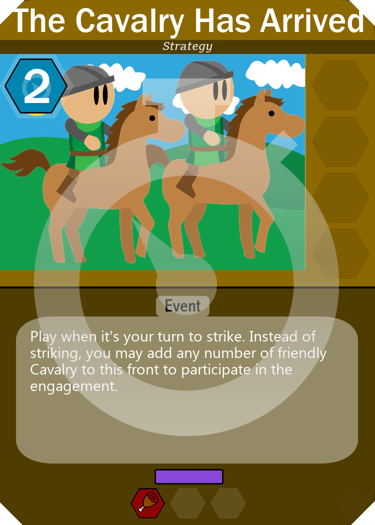
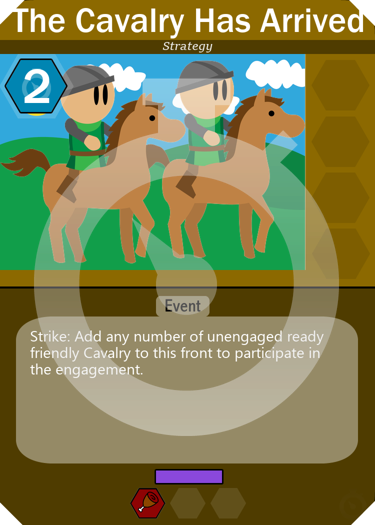
Card update
New cards and edits. Plenty of new "Burning" cards.

Changed region(s): [[0.0587, 0.6095, 0.88, 0.7619]]

diff --git a/js/tempo.js b/js/tempo.js
@@ -3,24 +3,24 @@ const ArtCards = ['Soldier', 'Knight', 'Capital', 'Barbarian', 'Peasant', 'Horse
 var CardDB = {
     "Soldier":{"cost":["A"],"time":"1","hp":1,"icons":["D", "Bw"],"spd":3,"tct":"1","res":["G"],"text":"-","vp":-1,"trait":"Military","type":"Unit","rare":"Common"},
     "Knight":{"cost":["A", "A"],"time":"2","hp":1,"icons":["D", "D"],"spd":3,"tct":"2","res":["A"],"text":"Shielding 1 (at the start of the engagement, place 1 shield on a friendly card)","vp":-1,"trait":"Military, Chivalry","type":"Unit","rare":"BLUE"},
-    "Capital":{"cost":[""],"time":"","hp":20,"icons":[""],"spd":-1,"tct":"","res":[""],"text":"Fronts: Forward, Left, Right. Water Front: Rear","vp":5,"trait":"Main Base","type":"Base","rare":"Common"},
+    "Capital":{"cost":[""],"time":"","hp":20,"icons":[""],"spd":-1,"tct":"","res":[""],"text":"Fronts: Forward, Left, Right. Water Front: Rear","vp":5,"trait":"Main Base","type":"Base","rare":"Common"},      
     "Barbarian":{"cost":["M"],"time":"1","hp":3,"icons":["Dr", "Drw"],"spd":3,"tct":"0","res":["W"],"text":"Presence (when this unit attacks, the opponent must defend with at least one defender)","vp":-1,"trait":"Outlaw","type":"Unit","rare":"BLUE"},
     "Peasant":{"cost":[""],"time":"1","hp":1,"icons":["Dw"],"spd":3,"tct":"0","res":["G"],"text":"-","vp":-1,"trait":"Civilian","type":"Unit","rare":"Common"},
-    "Horse Rider":{"cost":["A", "G"],"time":"2","hp":2,"icons":["D", "Bw", "Dr"],"spd":2,"tct":"1","res":["G"],"text":"-","vp":-1,"trait":"Military, Cavalry","type":"Unit","rare":"BLUE"},
+    "Horse Rider":{"cost":["A", "G", "M"],"time":"2","hp":2,"icons":["D", "Bw", "Dr"],"spd":2,"tct":"1","res":["G", "M"],"text":"-","vp":-1,"trait":"Military, Cavalry","type":"Unit","rare":"BLUE"},
     "King":{"cost":["S", "G", "G", "G"],"time":"3","hp":4,"icons":["D", "T", "Tw"],"spd":3,"tct":"4","res":["W", "G", "A"],"text":"During night, summon a peasant from the discard pile.","vp":2,"trait":"Royalty","type":"Unit","rare":"Rare"},
     "Archer":{"cost":["W"],"time":"1","hp":1,"icons":["D", "Dw"],"spd":3,"tct":"1","res":["W", "M"],"text":"-","vp":-1,"trait":"Military, Ranged","type":"Unit","rare":"Common"},
     "Bandit":{"cost":["G"],"time":"1","hp":1,"icons":["B", "Dw"],"spd":3,"tct":"0","res":["G"],"text":"-","vp":-1,"trait":"Outlaw","type":"Unit","rare":"Common"},
     "Prince":{"cost":["A", "G", "G", "G"],"time":"2","hp":3,"icons":["D", "D", "Dw", "Dw"],"spd":2,"tct":"4","res":["G", "S"],"text":"-","vp":1,"trait":"Royalty","type":"Unit","rare":"Rare"},
-    "Rogue":{"cost":["G", "W"],"time":"1","hp":2,"icons":["D", "B", ""],"spd":3,"tct":"-1","res":["W"],"text":"-","vp":-1,"trait":"Outlaw","type":"Unit","rare":"Common"},      
-    "Farmer":{"cost":[""],"time":"1","hp":1,"icons":["Bw"],"spd":3,"tct":"0","res":["W"],"text":"Guardian Animal","vp":-1,"trait":"Civilian","type":"Unit","rare":"Common"},    
+    "Rogue":{"cost":["G", "W"],"time":"1","hp":2,"icons":["D", "B", ""],"spd":3,"tct":"-1","res":["W"],"text":"-","vp":-1,"trait":"Outlaw","type":"Unit","rare":"Common"},
+    "Farmer":{"cost":[""],"time":"1","hp":1,"icons":["Bw"],"spd":3,"tct":"0","res":["W"],"text":"Guardian Animal","vp":-1,"trait":"Civilian","type":"Unit","rare":"Common"},
     "Catapult":{"cost":["3W", "A", "A"],"time":"4","hp":3,"icons":["B", "Bw", "Bw", "Bw"],"spd":4,"tct":"0","res":["W"],"text":"-","vp":-1,"trait":"Vehicle, Ranged","type":"Unit","rare":"Rare"},
-    "Mine":{"cost":["W"],"time":"4","hp":4,"icons":[""],"spd":-1,"tct":"","res":["A"],"text":"Resource: Exhaust and spend 1 time to gain 1 alloy.","vp":1,"trait":"Generation, Structure","type":"Building","rare":"Common"},
-    "Mill":{"cost":["W"],"time":"4","hp":4,"icons":[""],"spd":-1,"tct":"","res":["W"],"text":"Resource: Exhaust and spend 1 time to gain 1 wood.","vp":1,"trait":"Generation, Structure","type":"Building","rare":"Common"},
-    "Market":{"cost":["W"],"time":"4","hp":4,"icons":[""],"spd":-1,"tct":"","res":["G"],"text":"Resource: Exhaust and spend 1 time to gain 1 gold.","vp":1,"trait":"Generation, Structure","type":"Building","rare":"Common"},
+    "Mine":{"cost":["W"],"time":"4","hp":4,"icons":[""],"spd":-1,"tct":"","res":["A"],"text":"Resource: Exhaust and spend 1 time to gain 1 alloy.","vp":1,"trait":"Production, Structure","type":"Building","rare":"Common"},
+    "Mill":{"cost":["W"],"time":"4","hp":4,"icons":[""],"spd":-1,"tct":"","res":["W"],"text":"Resource: Exhaust and spend 1 time to gain 1 wood.","vp":1,"trait":"Production, Structure","type":"Building","rare":"Common"},
+    "Market":{"cost":["W"],"time":"4","hp":4,"icons":[""],"spd":-1,"tct":"","res":["G"],"text":"Resource: Exhaust and spend 1 time to gain 1 gold.","vp":1,"trait":"Production, Structure","type":"Building","rare":"Common"},
     "Guard":{"cost":["A"],"time":"1","hp":1,"icons":["Dbw", "Dbw"],"spd":3,"tct":"1","res":["W"],"text":"Guardian 1 (When a friendly unit on the same front takes damage, you exhaust this unit to block 1 damage and place it on this unit.)","vp":-1,"trait":"Military","type":"Unit","rare":"BLUE"},
-    "Defender":{"cost":["W", "A"],"time":"2","hp":2,"icons":["Db", "Db"],"spd":3,"tct":"1","res":["A"],"text":"Wall","vp":-1,"trait":"Military","type":"Unit","rare":"BLUE"},   
+    "Defender":{"cost":["W", "A"],"time":"2","hp":2,"icons":["Db", "Db"],"spd":3,"tct":"1","res":["A"],"text":"Wall","vp":-1,"trait":"Military","type":"Unit","rare":"BLUE"},
     "Raider":{"cost":["W"],"time":"1","hp":1,"icons":["B", "Bw"],"spd":3,"tct":"0","res":["G"],"text":"Loot 1","vp":-1,"trait":"Outlaw","type":"Unit","rare":"BLUE"},
-    "Hunter":{"cost":["G", "W"],"time":"1","hp":1,"icons":["Drw", "Drw"],"spd":3,"tct":"2","res":["M", "W"],"text":"Resource: Exhaust and spend 1 time to gain 1 meat.","vp":-1,"trait":"Civilian, Ranged","type":"Unit","rare":"BLUE"},
+    "Hunter":{"cost":["G", "W"],"time":"1","hp":1,"icons":["Drw", "Drw"],"spd":3,"tct":"2","res":["M"],"text":"Resource: Exhaust and spend 2 time to gain 1 meat.","vp":-1,"trait":"Civilian, Ranged, Production","type":"Unit","rare":"BLUE"},
     "Marksman":{"cost":["W", "W"],"time":"2","hp":1,"icons":["D", "Dw"],"spd":3,"tct":"1","res":["G"],"text":"Targeted Strike (while attacking, this unit may strike against enemy units that are not defending)","vp":-1,"trait":"Military, Ranged","type":"Unit","rare":"BLUE"},
     "Cow":{"cost":["G"],"time":"1","hp":3,"icons":[""],"spd":4,"tct":"0","res":["G"],"text":"Resource: Sacrifice for 2 meat","vp":-1,"trait":"Animal","type":"Unit","rare":"Common"},
     "Pig":{"cost":[""],"time":"2","hp":2,"icons":[""],"spd":3,"tct":"0","res":["M"],"text":"Resource: Sacrifice for 1 meat","vp":-1,"trait":"Animal","type":"Unit","rare":"Common"},
@@ -30,22 +30,21 @@ var CardDB = {
     "Messenger":{"cost":["G", "G"],"time":"1","hp":1,"icons":["D"],"spd":2,"tct":"+1","res":["S"],"text":"After this unit survives a battle, you may look at the top card of your deck","vp":-1,"trait":"Civilian, Cavalry","type":"Unit","rare":"BLUE"},
     "Royal Guard":{"cost":["A", "G"],"time":"2","hp":3,"icons":["D", "D"],"spd":3,"tct":"2","res":["W"],"text":"Spot Royalty. Guardian 2. Royalty not participating cannot be damaged","vp":-1,"trait":"Court, Military","type":"Unit","rare":"Rare"},
     "Guard Captain":{"cost":["A", "A"],"time":"2","hp":2,"icons":["Dbw", "Dbw"],"spd":3,"tct":"2","res":["G"],"text":"Guardian 2. While this unit is engaged, other friendly Guardians may treat one damage icon as if it were fully black when they strike.","vp":-1,"trait":"Military","type":"Unit","rare":"Rare"},
-    "Royal Knight":{"cost":["A", "A"],"time":"1","hp":2,"icons":["D", "D"],"spd":3,"tct":"3","res":["A", "S"],"text":"Spot Royalty. Shielding 2","vp":-1,"trait":"Court, Military","type":"Unit","rare":"Rare"},
-    "Angry Mob":{"cost":["W"],"time":"3","hp":3,"icons":["Dr", "B", "B"],"spd":4,"tct":"0","res":[""],"text":"At the end of the day, deal 2 damage to this unit.","vp":-1,"trait":"Civilian, Burning","type":"Unit","rare":"BLUE"},
+    "Royal Knight":{"cost":["A", "A"],"time":"1","hp":2,"icons":["D", "D"],"spd":3,"tct":"3","res":["A", "S"],"text":"Spot Royalty. Shielding 2","vp":-1,"trait":"Court, Military","type":"Unit","rare":"Rare"},    "Angry Mob":{"cost":["W"],"time":"3","hp":3,"icons":["Dr", "B", "B"],"spd":4,"tct":"0","res":[""],"text":"At the end of the day, deal 2 damage to this unit.","vp":-1,"trait":"Civilian, Burning","type":"Unit","rare":"BLUE"},
     "Jester":{"cost":["G"],"time":"2","hp":1,"icons":[""],"spd":3,"tct":"1","res":[""],"text":"Presence. Enemies with 0 or less tactics cannot target him.","vp":-1,"trait":"Civilian, Court","type":"Unit","rare":"BLUE"},
-    "Book":{"cost":[""],"time":"0","hp":-1,"icons":[""],"spd":-1,"tct":"","res":[""],"text":"Upgrade unit. Attached unit gains +1 tactics","vp":-1,"trait":"Book","type":"Upgrade","rare":"BLUE"},
+    "Book":{"cost":[""],"time":"1","hp":-1,"icons":[""],"spd":-1,"tct":"","res":[""],"text":"Upgrade unit. Attached unit gains +1 tactics","vp":-1,"trait":"Book","type":"Upgrade","rare":"BLUE"},
     "Royal Herald":{"cost":["A"],"time":"2","hp":1,"icons":[""],"spd":3,"tct":"1","res":["S"],"text":"Decrease the cost of Royal cards by 1 Gold.","vp":-1,"trait":"Musician, Court","type":"Unit","rare":"Rare"},
-    "Well Prepared":{"cost":[""],"time":"1","hp":-1,"icons":[""],"spd":-1,"tct":"","res":[""],"text":"Play when determining advantage while you are defending. You automatically gain the advantage.","vp":-1,"trait":"Strategy","type":"Event","rare":"Common"},       
-    "Surprise Attack":{"cost":[""],"time":"1","hp":-1,"icons":[""],"spd":-1,"tct":"","res":[""],"text":"Play when determining advantage while you are attacking. You automatically gain the advantage.","vp":-1,"trait":"Strategy","type":"Event","rare":"Common"},     
+    "Well Prepared":{"cost":[""],"time":"1","hp":-1,"icons":[""],"spd":-1,"tct":"","res":[""],"text":"Play when determining advantage while you are defending. You automatically gain the advantage.","vp":-1,"trait":"Strategy","type":"Event","rare":"Common"},
+    "Surprise Attack":{"cost":[""],"time":"1","hp":-1,"icons":[""],"spd":-1,"tct":"","res":[""],"text":"Play when determining advantage while you are attacking. You automatically gain the advantage.","vp":-1,"trait":"Strategy","type":"Event","rare":"Common"},
     "Builder":{"cost":["A"],"time":"1","hp":1,"icons":["Bw"],"spd":3,"tct":"0","res":["W"],"text":"Exhaust while playing a building to decrease the time cost by 1","vp":-1,"trait":"Civilian","type":"Unit","rare":"Common"},
     "Dragon":{"cost":["3G", "3M"],"time":"3","hp":4,"icons":["D", "Dr", "Dr", "Br", "Br"],"spd":2,"tct":"2","res":["G"],"text":"Flying. Loot 2. Presence. While attacking, this unit gains 2 extra blast from the no defenders bonus, unless your opponent spends one time. ","vp":2,"trait":"Beast, Ranged, Burning","type":"Unit","rare":"Rare"},
-    "Rooster":{"cost":["G"],"time":"1","hp":1,"icons":[""],"spd":2,"tct":"0","res":["M"],"text":"Gain +1 Time at start of day. Resource: Sacrifice for 1 meat","vp":-1,"trait":"Animal","type":"Unit","rare":"BLUE"},
-    "Sentry":{"cost":["A", "A", "W"],"time":"2","hp":1,"icons":["Db"],"spd":3,"tct":"1","res":["A"],"text":"While this unit is defending, when determining advantage, you may spend 3 time and exhaust this unit. If you do, you gain the advantage.","vp":-1,"trait":"Military","type":"Unit","rare":"BLUE"},  
+    "Rooster":{"cost":["G"],"time":"1","hp":1,"icons":[""],"spd":2,"tct":"0","res":["M"],"text":"Gain +1 Time at start of day. Resource: Sacrifice for 1 meat","vp":-1,"trait":"Animal","type":"Unit","rare":"Rare"},
+    "Sentry":{"cost":["A", "A", "W"],"time":"2","hp":1,"icons":["Db"],"spd":3,"tct":"1","res":["A"],"text":"While this unit is defending, when determining advantage, you may spend 3 time and exhaust this unit. If you do, you gain the advantage.","vp":-1,"trait":"Military","type":"Unit","rare":"BLUE"},
     "Expert Archer":{"cost":["W", "W"],"time":"2","hp":2,"icons":["D", "Dw"],"spd":3,"tct":"1","res":["W", "M"],"text":"When this unit strikes, you may spend one time to deal one extra damage to the target unit.","vp":-1,"trait":"Military, Ranged","type":"Unit","rare":"Rare"},
     "Knight Commander":{"cost":["S", "A", "A", "A"],"time":"3","hp":4,"icons":["D", "D", "Dw", "Tw"],"spd":3,"tct":"5","res":["S"],"text":"This unit can only fight with Chivalry.","vp":1,"trait":"Military, Chivalry","type":"Unit","rare":"Rare"},
     "Knight Officer":{"cost":["A", "A", "A"],"time":"2","hp":3,"icons":["D", "D"],"spd":3,"tct":"3","res":["A"],"text":"Friendly Chivalry gain Guardian 1.","vp":-1,"trait":"Military, Chivalry","type":"Unit","rare":"BLUE"},
     "War Hero":{"cost":["G", "W", "A"],"time":"2","hp":3,"icons":["Dr", "Br"],"spd":3,"tct":"1","res":["G"],"text":"After surviving a battle, this unit heals to full health. You may then spend one gold, one alloy, and one time to place one counter on this unit. For each counter, this unit gains a white unit damage icon and +1 tactics","vp":1,"trait":"Military, Cavalry","type":"Unit","rare":"Rare"},
-    "Cannon":{"cost":["A", "A"],"time":"3","hp":2,"icons":["D", "D", "Dw", "B"],"spd":-1,"tct":"","res":["A", "W"],"text":"","vp":-1,"trait":"Defensive, Ranged, Aquatic","type":"Building","rare":"BLUE"},
+    "Cannon":{"cost":["A", "A"],"time":"3","hp":2,"icons":["D", "D", "Dw", "B"],"spd":-1,"tct":"","res":["A", "W"],"text":"","vp":-1,"trait":"Defensive, Ranged, Aquatic","type":"Building","rare":"BLUE"},     
     "Flaming Archer":{"cost":["W", "W"],"time":"3","hp":1,"icons":["Dr", "Drw"],"spd":3,"tct":"1","res":["W"],"text":"While attacking, this unit gains 1 extra blast from the no defenders bonus, unless your opponent spends 1 time. ","vp":-1,"trait":"Military, Ranged, Burning","type":"Unit","rare":"Rare"},
     "Coward":{"cost":["A"],"time":"0","hp":1,"icons":["D", "Bw"],"spd":3,"tct":"0","res":["A", "G"],"text":"If this unit is the only friendly unit in the engagement, it flees.","vp":-1,"trait":"Military","type":"Unit","rare":"BLUE"},
     "Dark Prince":{"cost":["G", "G", "G", "A"],"time":"2","hp":3,"icons":["D", "D", "Dw", "Dw"],"spd":2,"tct":"3","res":["G", "C"],"text":"Arrogant (this unit must be your chosen leader)","vp":1,"trait":"Dark, Royalty","type":"Unit","rare":"Rare"},
@@ -59,17 +58,17 @@ var CardDB = {
     "Angry Farmer":{"cost":[""],"time":"1","hp":1,"icons":["Bw"],"spd":3,"tct":"0","res":["W"],"text":"Action: Sacrifice this unit and another civilian to summon an angry mob.","vp":-1,"trait":"Civilian","type":"Unit","rare":"BLUE"},
     "Dark Soldier":{"cost":["A"],"time":"1","hp":1,"icons":["D", "Bw"],"spd":3,"tct":"1","res":["C"],"text":"If this unit survives an attack without the undefended bonus, destroy it.","vp":-1,"trait":"Military, Dark","type":"Unit","rare":"BLUE"},
     "Dismount":{"cost":[""],"time":"0","hp":-1,"icons":[""],"spd":-1,"tct":"","res":["M", "A", "G"],"text":"Action: Sacrifice a Cavalry to summon a horse, and a soldier if that unit was military","vp":-1,"trait":"","type":"Event","rare":"BLUE"},
-    "Blacksmith":{"cost":["A", "G"],"time":"2","hp":1,"icons":["D", "Bw"],"spd":3,"tct":"0","res":["A"],"text":"Resource: Exhaust this card, spend 2 time, and spend 1 alloy to gain either 2 alloy or 1 gold.","vp":-1,"trait":"Civilian, Generation","type":"Unit","rare":"BLUE"},
+    "Blacksmith":{"cost":["A", "G"],"time":"2","hp":1,"icons":["D", "Bw"],"spd":3,"tct":"0","res":["A"],"text":"Resource: Exhaust this card, spend 2 time, and spend 1 alloy to gain either 2 alloy or 1 gold.","vp":-1,"trait":"Civilian, Production","type":"Unit","rare":"BLUE"},
     "Sword":{"cost":["A"],"time":"1","hp":-1,"icons":[""],"spd":-1,"tct":"","res":["W"],"text":"Upgrade Military. Attached unit gains piercing and a black unit damage icon.","vp":-1,"trait":"Weapon","type":"Upgrade","rare":"BLUE"},
     "Heater Shield":{"cost":["A"],"time":"1","hp":-1,"icons":[""],"spd":-1,"tct":"","res":["W"],"text":"Upgrade Military. Attached unit gains shielding 1.","vp":-1,"trait":"Equipment","type":"Upgrade","rare":"BLUE"},
-    "Anvil":{"cost":["A", "A"],"time":"1","hp":-1,"icons":[""],"spd":-1,"tct":"","res":["A"],"text":"Upgrade structure. Resource: Exhaust and spend 1 alloy to gain 2 alloy","vp":-1,"trait":"","type":"Upgrade","rare":"BLUE"},
+    "Anvil":{"cost":["A", "A"],"time":"1","hp":-1,"icons":[""],"spd":-1,"tct":"","res":["A"],"text":"Upgrade structure. Resource: Exhaust and spend 1 alloy to gain 2 alloy","vp":-1,"trait":"Equipment, Production","type":"Upgrade","rare":"BLUE"},
     "Crown":{"cost":["G", "G"],"time":"2","hp":-1,"icons":[""],"spd":-1,"tct":"","res":["S"],"text":"Upgrade Royalty. While attached card is engaged, other friendly units in the engagement gain guardian royalty. Attached Card has +1 VP","vp":-1,"trait":"Equipment","type":"Upgrade","rare":"BLUE"},
     "Front Focused":{"cost":[""],"time":"1","hp":-1,"icons":[""],"spd":-1,"tct":"","res":["W"],"text":"Play when an opponent begins an attack. The opponent can only attack on a single front.","vp":-1,"trait":"Strategy","type":"Event","rare":"BLUE"},
     "Raging Flames":{"cost":[""],"time":"1","hp":-1,"icons":[""],"spd":-1,"tct":"","res":["W"],"text":"Play when you gain the undefended bonus. Spot a participating burning unit to deal 2 extra blast, unless the opponent spends 1 time","vp":-1,"trait":"Burning, Attack","type":"Event","rare":"BLUE"},
     "Warning Horn":{"cost":["W"],"time":"1","hp":-1,"icons":[""],"spd":-1,"tct":"","res":["S"],"text":"Upgrade Structure. When this front is attacked, you may exhaust this card to ready a defensive card or a unit with a blue damage icon.","vp":-1,"trait":"Defensive","type":"Upgrade","rare":"BLUE"},
     "Brawler":{"cost":["W"],"time":"0","hp":2,"icons":["D", "D"],"spd":3,"tct":"0","res":["A"],"text":"If ready, this unit must be declared as an attacker or defender, if possible.","vp":-1,"trait":"Outlaw","type":"Unit","rare":"BLUE"},
     "Winter Soldier":{"cost":["A"],"time":"1","hp":1,"icons":["D", "Bw"],"spd":4,"tct":"1","res":["I"],"text":"After this unit deals damage to a enemy card with Burning, exhaust that card.","vp":-1,"trait":"Winter, Military","type":"Unit","rare":"BLUE"},
-    "Frost Knight":{"cost":["A", "A", "I"],"time":"2","hp":2,"icons":["D", "D", "Tbw"],"spd":4,"tct":"3","res":["I", "A"],"text":"Shielding 1","vp":-1,"trait":"Winter, Chivalry","type":"Unit","rare":"Rare"},
+    "Frost Knight":{"cost":["A", "A", "I"],"time":"2","hp":2,"icons":["D", "D", "Tbw"],"spd":4,"tct":"3","res":["I", "A"],"text":"Shielding 1","vp":-1,"trait":"Winter, Chivalry","type":"Unit","rare":"Rare"}, 
     "Ice Archer":{"cost":["W", "I"],"time":"2","hp":1,"icons":["D", "Tbw"],"spd":4,"tct":"0","res":["I", "W"],"text":"-","vp":-1,"trait":"Winter, Military, Ranged","type":"Unit","rare":"BLUE"},
     "Snowman":{"cost":[""],"time":"1","hp":1,"icons":["Tbw"],"spd":4,"tct":"0","res":[""],"text":"Resource: Sacrifice this unit for 1 ice.","vp":-1,"trait":"Winter","type":"Unit","rare":"BLUE"},
     "Ice King":{"cost":["I", "G", "G", "G"],"time":"3","hp":4,"icons":["Tb", "Tw"],"spd":4,"tct":"5","res":["I", "S", "G"],"text":"This unit cannot be exhausted by enemies.","vp":2,"trait":"Winter, Royalty","type":"Unit","rare":"Rare"},
@@ -78,28 +77,26 @@ var CardDB = {
     "Standoff":{"cost":[""],"time":"0","hp":-1,"icons":[""],"spd":-1,"tct":"","res":[""],"text":"Action: Pick an opponent. You choose a number between 0 and 3 (inclusive). Both you and your opponent lose this much time. Then the opponent does the same, but they choose the number.","vp":-1,"trait":"Strategy","type":"Event","rare":"BLUE"},
     "Snowball":{"cost":[""],"time":"1","hp":-1,"icons":[""],"spd":-1,"tct":"","res":["I"],"text":"Upgrade winter unit. Attached unit gains ranged and a black unit damage icon.","vp":-1,"trait":"Weapon, Winter","type":"Upgrade","rare":"BLUE"},
     "Flock":{"cost":["F", "F"],"time":"4","hp":3,"icons":[""],"spd":4,"tct":"-1","res":["F"],"text":"Flying. This unit was a white unit damage icon for each health it has remaining.","vp":-1,"trait":"Animal","type":"Unit","rare":"BLUE"},
-    "Doctor":{"cost":["G", "A"],"time":"3","hp":1,"icons":[""],"spd":3,"tct":"1","res":["S"],"text":"During night, heal 1 damage from a friendly unit.","vp":-1,"trait":"Civilian","type":"Unit","rare":"BLUE"},
-    "Soldier Squadron":{"cost":["A", "A", "A"],"time":"2","hp":3,"icons":["D", "D", "D"],"spd":3,"tct":"1","res":["G"],"text":"-","vp":-1,"trait":"Military","type":"Unit","rare":"BLUE"},
-    "Double Cross":{"cost":["C"],"time":"2","hp":-1,"icons":[""],"spd":-1,"tct":"","res":["G"],"text":"Play when an opponent plays an event. Cancel its effects. You may play the canceled card as if you had played it, paying its costs","vp":-1,"trait":"","type":"Event","rare":"BLUE"},
+    "Doctor":{"cost":["G", "A"],"time":"3","hp":1,"icons":[""],"spd":3,"tct":"1","res":["S"],"text":"During night, heal 1 damage from a friendly unit.","vp":-1,"trait":"Civilian","type":"Unit","rare":"BLUE"},    "Soldier Squadron":{"cost":["A", "A", "A"],"time":"2","hp":3,"icons":["D", "D", "D"],"spd":3,"tct":"1","res":["G"],"text":"-","vp":-1,"trait":"Military","type":"Unit","rare":"BLUE"},
+    "Double Cross":{"cost":["C"],"time":"2","hp":-1,"icons":[""],"spd":-1,"tct":"","res":["G"],"text":"Play when an opponent plays an event. Cancel its effects. You may play the canceled card as if you had played it, paying its costs","vp":-1,"trait":"Cancel","type":"Event","rare":"BLUE"},
     "Two Steps Ahead":{"cost":["Q"],"time":"3","hp":-1,"icons":[""],"spd":-1,"tct":"","res":["S"],"text":"Play when an opponent plays an event. Cancel its effects","vp":-1,"trait":"Strategy, Cancel","type":"Event","rare":"BLUE"},
-    "Bribe":{"cost":["G", "G", "G"],"time":"2","hp":-1,"icons":[""],"spd":-1,"tct":"","res":["C"],"text":"Action: Choose an enemy unit with gold in their cost, that isn't Chivalry, and has 2 or less tactics. Take control of that unit.","vp":-1,"trait":"Dark, Cancel","type":"Event","rare":"BLUE"},
+    "Bribe":{"cost":["G", "G", "G"],"time":"2","hp":-1,"icons":[""],"spd":-1,"tct":"","res":["C"],"text":"Action: Choose an enemy unit with gold in their cost, that isn't Chivalry, and has 2 or less tactics. Take control of that unit.","vp":-1,"trait":"Dark","type":"Event","rare":"BLUE"},
     "Confusion":{"cost":["A"],"time":"1","hp":-1,"icons":[""],"spd":-1,"tct":"","res":[""],"text":"Play on an enemy unit. Treat each of that units black damage icons as white, and each of its white icons as black.","vp":-1,"trait":"","type":"Detriment","rare":"BLUE"},
     "Fear":{"cost":["W", "A", "A"],"time":"2","hp":-1,"icons":[""],"spd":-1,"tct":"","res":[""],"text":"Play on an opponent's play area. After that opponent plays a unit, you may discard this card to return that unit to their hand.","vp":-1,"trait":"","type":"Detriment","rare":"BLUE"},
-    "Testudo Formation":{"cost":[""],"time":"1","hp":-1,"icons":[""],"spd":-1,"tct":"","res":[""],"text":"Play during an engagement. For each partipating shielding unit, you may place 1 shield on any unit.","vp":-1,"trait":"Strategy","type":"Event","rare":"Rare"},    "Warhorn":{"cost":["W", "W"],"time":"1","hp":-1,"icons":[""],"spd":-1,"tct":"","res":[""],"text":"Upgrade a unit. Attached unit gains Presence","vp":-1,"trait":"Equipment","type":"Upgrade","rare":"BLUE"},
-    "Black Death":{"cost":["4C", "W"],"time":"5","hp":-1,"icons":[""],"spd":-1,"tct":"","res":[""],"text":"Play on an opponent's play area. Deal 1 damage to all of that opponent's non-VP units during night. Discard this card if that opponent ever controls no non-VP units","vp":-1,"trait":"Disease","type":"Detriment","rare":"Rare"},
+    "Testudo Formation":{"cost":[""],"time":"1","hp":-1,"icons":[""],"spd":-1,"tct":"","res":[""],"text":"Play during an engagement. For each partipating shielding unit, you may place 1 shield on any unit.","vp":-1,"trait":"Strategy","type":"Event","rare":"Rare"},
+    "Warhorn":{"cost":["W", "W"],"time":"1","hp":-1,"icons":[""],"spd":-1,"tct":"","res":[""],"text":"Upgrade a unit. Attached unit gains Presence","vp":-1,"trait":"Equipment","type":"Upgrade","rare":"BLUE"},    "Black Death":{"cost":["4C", "W"],"time":"5","hp":-1,"icons":[""],"spd":-1,"tct":"","res":[""],"text":"Play on an opponent's play area. Deal 1 damage to all of that opponent's non-VP units during night. Discard this card if that opponent ever controls no non-VP units","vp":-1,"trait":"Disease","type":"Detriment","rare":"Rare"},
     "Hourglass":{"cost":["W"],"time":"2","hp":-1,"icons":[""],"spd":-1,"tct":"","res":["W"],"text":"Upgrade Unit. Action: Spend 1 time and exhaust this card to force an opponent to lose 1 time.","vp":-1,"trait":"Equipment","type":"Upgrade","rare":"BLUE"},
-    "Rally":{"cost":[""],"time":"3","hp":-1,"icons":[""],"spd":-1,"tct":"","res":["S"],"text":"Summon 3 common Civilians.","vp":-1,"trait":"","type":"Event","rare":"BLUE"},    
+    "Rally":{"cost":[""],"time":"3","hp":-1,"icons":[""],"spd":-1,"tct":"","res":["S"],"text":"Summon 3 common Civilians.","vp":-1,"trait":"","type":"Event","rare":"BLUE"},
     "Captain":{"cost":["A", "A", "G", "G"],"time":"2","hp":2,"icons":["D", "Bw"],"spd":3,"tct":"2","res":["A", "G"],"text":"After this unit is played, summon up to 2 soldiers.","vp":-1,"trait":"Military","type":"Unit","rare":"Rare"},
     "Salmon":{"cost":[""],"time":"1","hp":1,"icons":[""],"spd":3,"tct":"0","res":["G"],"text":"Resource: Sacrifice this unit for 1 fish, or 2 instead if you spot another water unit","vp":-1,"trait":"Water, Animal","type":"Unit","rare":"BLUE"},
     "Giant":{"cost":["M", "M", "M", "M"],"time":"3","hp":5,"icons":["D", "D", "B", "B"],"spd":4,"tct":"0","res":["W"],"text":"-","vp":1,"trait":"-","type":"Unit","rare":"BLUE"},
-    "Regicide":{"cost":[""],"time":"1","hp":-1,"icons":[""],"spd":-1,"tct":"","res":[""],"text":"Play after an opponent's royalty unit is defeated. Gain 1 VP","vp":-1,"trait":"","type":"Event","rare":"BLUE"},
-    "Revolution!":{"cost":[""],"time":"2","hp":-1,"icons":[""],"spd":-1,"tct":"","res":["A"],"text":"Action: Sacrifice a royalty unit to ready all friendly civilians and heal all damage from them","vp":-1,"trait":"","type":"Event","rare":"BLUE"},
+    "Regicide":{"cost":[""],"time":"1","hp":-1,"icons":[""],"spd":-1,"tct":"","res":[""],"text":"Play after an opponent's royalty unit is defeated. Gain 1 VP","vp":-1,"trait":"","type":"Event","rare":"BLUE"},    "Revolution!":{"cost":[""],"time":"2","hp":-1,"icons":[""],"spd":-1,"tct":"","res":["A"],"text":"Action: Sacrifice a royalty unit to ready all friendly civilians and heal all damage from them","vp":-1,"trait":"","type":"Event","rare":"BLUE"},
     "Decisive Victory":{"cost":[""],"time":"1","hp":-1,"icons":[""],"spd":-1,"tct":"","res":["G"],"text":"Play after you destroy a unit with VP. Destroy a target upgrade.","vp":-1,"trait":"","type":"Event","rare":"BLUE"},
     "Book of Nobility":{"cost":["W"],"time":"1","hp":-1,"icons":[""],"spd":-1,"tct":"","res":["S"],"text":"Upgrade chivalry or military. While this upgrade is on a military they are treated as a chivalry. If this upgrade is on a chivalry it gains shielding 2 and can only fight with other chivalry.","vp":-1,"trait":"Book","type":"Upgrade","rare":"BLUE"},
     "Informant":{"cost":["G"],"time":"2","hp":1,"icons":["D"],"spd":3,"tct":"1","res":["W"],"text":"When this card enters play, you may look at an opponent's hand.","vp":-1,"trait":"Dark","type":"Unit","rare":"BLUE"},
     "Rumors":{"cost":["G"],"time":"2","hp":-1,"icons":[""],"spd":-1,"tct":"","res":["C"],"text":"Action: An opponent chooses 1 card in their hand, and shows the rest to you. Of the shown cards, choose and discard 1.","vp":-1,"trait":"","type":"Event","rare":"BLUE"},
     "Snow Bandit":{"cost":["G"],"time":"2","hp":1,"icons":["B", "Bw"],"spd":4,"tct":"0","res":["G", "I"],"text":"After attacking or defending, if you had the no defenders bonus and this unit was alive, you may exhaust an enemy building.","vp":-1,"trait":"Winter, Outlaw","type":"Unit","rare":"BLUE"},
-    "Noble Sacrifice":{"cost":[""],"time":"0","hp":-1,"icons":[""],"spd":-1,"tct":"","res":["S", "F", "M"],"text":"Strike: Sacrifice a participating unit with at least 2 tactics to have any number of friendly units on the front from the battle.","vp":-1,"trait":"Strategy","type":"Event","rare":"BLUE"},
+    "Noble Sacrifice":{"cost":[""],"time":"0","hp":-1,"icons":[""],"spd":-1,"tct":"","res":["S", "F", "M"],"text":"Strike: Sacrifice a participating unit with at least 2 tactics to have any number of friendly flee units on the front from the battle.","vp":-1,"trait":"Strategy","type":"Event","rare":"BLUE"},
     "Fight Me":{"cost":["G"],"time":"3","hp":-1,"icons":[""],"spd":-1,"tct":"","res":[""],"text":"Choose up to three of your own units. An opponent then chooses that number of their own units, if able. Start a battle with those units ignoring speed cost and not attacking a front.","vp":-1,"trait":"Strategy","type":"Event","rare":"BLUE"},
     "Disruption":{"cost":["W", "A"],"time":"2","hp":-1,"icons":[""],"spd":-1,"tct":"","res":["G"],"text":"Play on an opponents play area. Each card the opponent plays cost 1 additional time. Discard this card at the end of the day.","vp":-1,"trait":"","type":"Detriment","rare":"BLUE"},
     "Crow":{"cost":["Q"],"time":"1","hp":1,"icons":["Dw"],"spd":2,"tct":"0","res":[""],"text":"Flying. After this unit strikes, it flees","vp":-1,"trait":"Animal, Dark","type":"Unit","rare":"BLUE"},
@@ -111,42 +108,53 @@ var CardDB = {
     "Rat":{"cost":[""],"time":"1","hp":1,"icons":["D"],"spd":3,"tct":"0","res":["C"],"text":"After this unit strikes, you may sacrifice it to play a detriment from your discard pile, ignoring the time cost.","vp":-1,"trait":"Animal, Dark","type":"Unit","rare":"BLUE"},
     "Nightmares":{"cost":[""],"time":"1","hp":-1,"icons":[""],"spd":-1,"tct":"","res":["C"],"text":"Play on enemy unit. During night, before the owner of attached card draws up to their hand size, they must choose and discard 1 card.","vp":-1,"trait":"","type":"Detriment","rare":"BLUE"},
     "Dreams":{"cost":[""],"time":"1","hp":-1,"icons":[""],"spd":-1,"tct":"","res":["S"],"text":"Upgrade character. During night, before you discard cards, you may draw 1 card.","vp":-1,"trait":"","type":"Upgrade","rare":"BLUE"},
-    "Horse":{"cost":["M"],"time":"1","hp":1,"icons":[""],"spd":2,"tct":"0","res":["G"],"text":"Action: Attach this card to a non-calvary unit. Attached card gains Cavalry and reduces its travel time by 1.","vp":-1,"trait":"Animal","type":"Unit","rare":"Common"},  
+    "Horse":{"cost":["M"],"time":"1","hp":1,"icons":[""],"spd":2,"tct":"0","res":["G"],"text":"Action: Attach this card to a non-cavalry unit. Attached card gains Cavalry and reduces its travel time by 1.","vp":-1,"trait":"Animal","type":"Unit","rare":"Common"},
     "Exhaustion":{"cost":["W", "A"],"time":"1","hp":-1,"icons":[""],"spd":-1,"tct":"","res":["A"],"text":"Play on a ready enemy unit. This unit does not ready at night unless its controller starts the day with 2 less time.","vp":-1,"trait":"","type":"Detriment","rare":"BLUE"},
-    "Unsanctioned Experiments":{"cost":["C"],"time":"1","hp":-1,"icons":[""],"spd":-1,"tct":"","res":["C"],"text":"Sacrifice a civilian you control to play a card from your discard pile, paying its cost.","vp":-1,"trait":"Dark","type":"Event","rare":"BLUE"},      
-    "The Cavalry has arrived":{"cost":[""],"time":"2","hp":-1,"icons":[""],"spd":-1,"tct":"","res":["M"],"text":"Play when it's your turn to strike. Instead of striking, you may add any number of friendly Cavalry to this front to participate in the engagement.","vp":-1,"trait":"Strategy","type":"Event","rare":"Rare"},
+    "Unsanctioned Experiments":{"cost":["C"],"time":"1","hp":-1,"icons":[""],"spd":-1,"tct":"","res":["C"],"text":"Sacrifice a civilian you control to play a card from your discard pile, paying its cost.","vp":-1,"trait":"Dark","type":"Event","rare":"BLUE"},
+    "The Cavalry has arrived":{"cost":[""],"time":"2","hp":-1,"icons":[""],"spd":-1,"tct":"","res":["M"],"text":"Strike: Add any number of unengaged ready friendly Cavalry to this front to participate in the engagement.","vp":-1,"trait":"Strategy","type":"Event","rare":"Rare"},
     "Ice Dragon":{"cost":["3M", "3I"],"time":"3","hp":4,"icons":["B", "B", "Tb", "Tbw"],"spd":3,"tct":"3","res":["I", "G"],"text":"Flying. After this unit strikes as an attacker, exhaust all buildings on this front","vp":2,"trait":"Winter, Beast, Ranged","type":"Unit","rare":"Rare"},
     "Igloo":{"cost":["I"],"time":"2","hp":4,"icons":[""],"spd":-1,"tct":"","res":["W"],"text":"After you play a winter card, you may exhaust this card to draw 1 card","vp":1,"trait":"Winter, Structure","type":"Building","rare":"BLUE"},
     "Preemptive Strike":{"cost":["C"],"time":"2","hp":-1,"icons":[""],"spd":-1,"tct":"","res":["A"],"text":"Play when an opponent begins an attack, before declaring attackers. You attack the opponent first, and then they may choose to attack you.","vp":-1,"trait":"Strategy","type":"Event","rare":"BLUE"},
-    "Standard Viking":{"cost":["W"],"time":"1","hp":1,"icons":["D", "Bw"],"spd":3,"tct":"1","res":["G"],"text":"-","vp":-1,"trait":"Viking","type":"Unit","rare":"Common"},     
+    "Standard Viking":{"cost":["W"],"time":"1","hp":1,"icons":["D", "Bw"],"spd":3,"tct":"1","res":["G"],"text":"-","vp":-1,"trait":"Viking","type":"Unit","rare":"Common"},
     "Axe Viking":{"cost":["W", "A", "A"],"time":"1","hp":2,"icons":["D", "B"],"spd":3,"tct":"1","res":["G", "W"],"text":"While attacking a unit with 1 or more shield tokens, you may also exhaust them as part of your attack.","vp":-1,"trait":"Viking","type":"Unit","rare":"Common"},
     "Shield Viking":{"cost":["A", "A"],"time":"2","hp":1,"icons":["Dbw"],"spd":4,"tct":"0","res":["A"],"text":"Shielding 1, Guardian 1","vp":-1,"trait":"Viking","type":"Unit","rare":"Common"},
     "Viking Boat":{"cost":["W", "W", "F"],"time":"3","hp":3,"icons":["D", "Drw", "Brw"],"spd":4,"tct":"2","res":["W"],"text":"Rotary Cannon (This unit may deal its blast damage to a different front than the one it is fighting on, even if it is defending), Mod 1 (This unit can only have 1 Modification card attatched to it)","vp":-1,"trait":"Water, Viking, Boat","type":"Unit","rare":"BLUE"},
     "Steep Mountain":{"cost":["A", "A"],"time":"3","hp":7,"icons":[""],"spd":-1,"tct":"","res":["A"],"text":"If Vehicle Units attack this front, the opponent must spend 2 time per vehicle attacking. If the opponent cannot spend the time, the vehicles must attack a different front.","vp":-1,"trait":"Terrain","type":"Building","rare":"BLUE"},
-    "Trade Market":{"cost":["W"],"time":"3","hp":5,"icons":[""],"spd":-1,"tct":"","res":["G"],"text":"Resource: Exhaust and spend 1 alloy or wood to gain 2 gold.","vp":1,"trait":"Generation, Structure","type":"Building","rare":"Common"},
-    "Spike-O-Pult":{"cost":["3A", "w", "W"],"time":"4","hp":2,"icons":["D", "B", "B", "Bw"],"spd":5,"tct":"1","res":["A"],"text":"Armored (enemies must use blast to damage this unit)","vp":-1,"trait":"Vehicle, Ranged","type":"Unit","rare":"Rare"},
+    "Trade Market":{"cost":["W"],"time":"3","hp":5,"icons":[""],"spd":-1,"tct":"","res":["G"],"text":"Resource: Exhaust and spend 1 alloy or wood to gain 2 gold.","vp":1,"trait":"Production, Structure","type":"Building","rare":"Common"},
+    "Spike-O-Pult":{"cost":["3A", "W", "W"],"time":"4","hp":2,"icons":["D", "B", "B", "Bw"],"spd":5,"tct":"1","res":["A"],"text":"Armored (enemies must use blast to damage this unit)","vp":-1,"trait":"Vehicle, Ranged","type":"Unit","rare":"Rare"},
     "Taskmaster":{"cost":["W", "W", "M"],"time":"2","hp":1,"icons":["Dw", "Bw"],"spd":3,"tct":"1","res":["M"],"text":"When you play a building, you may exhaust this card and other friendly civilian cards to decrease the time to play the building by 1 for each other civilian exhausted.","vp":-1,"trait":"Civilian","type":"Unit","rare":"BLUE"},
     "Viking King":{"cost":["F", "G", "G", "G"],"time":"4","hp":4,"icons":["D", "Dw", "Tw", "Tw"],"spd":3,"tct":"4","res":["G", "F"],"text":"If you do not have advantage while attacking, all Viking units may use one of their white attack icons during the attack.","vp":2,"trait":"Viking, Royalty","type":"Unit","rare":"Rare"},
-    "Booming Economy":{"cost":["S"],"time":"1","hp":-1,"icons":[""],"spd":-1,"tct":"","res":[""],"text":"Upgrade a Generation Building. After attached building produces 1 or more gold, ready it.","vp":-1,"trait":"Modification","type":"Upgrade","rare":"BLUE"},     
+    "Booming Economy":{"cost":["S"],"time":"1","hp":-1,"icons":[""],"spd":-1,"tct":"","res":[""],"text":"Upgrade a Production Building. After attached building produces 1 or more gold, ready it.","vp":-1,"trait":"Modification","type":"Upgrade","rare":"BLUE"},
     "Heavy Rain":{"cost":[""],"time":"0","hp":-1,"icons":[""],"spd":-1,"tct":"","res":["F"],"text":"Play at the start of the day. Upgrade play area. For the remainder of the day, no unit can use white damage icons. Discard this card during night.","vp":-1,"trait":"Terrain","type":"Upgrade","rare":"BLUE"},
     "Intense Fog":{"cost":[""],"time":"0","hp":-1,"icons":[""],"spd":-1,"tct":"","res":["F"],"text":"Play at the start of the day. Upgrade play area. For the remainder of the day, no ranged unit can use white damage icons and every Unit has -1 Tactics (to a minimum of 0). Discard this card during night.","vp":-1,"trait":"Terrain","type":"Upgrade","rare":"BLUE"},
     "Leather Pouch":{"cost":["M"],"time":"0","hp":-1,"icons":[""],"spd":-1,"tct":"","res":["M"],"text":"Upgrade viking. Store 1 Wood. This Unit gains Looting 1.","vp":-1,"trait":"Equipment","type":"Upgrade","rare":"Common"},
-    "The Fog Has Lifted!":{"cost":["S"],"time":"1","hp":-1,"icons":[""],"spd":-1,"tct":"","res":["S"],"text":"Upgrade Play Area. Each player's hand size is increased by 2 for the rest of the game.","vp":-1,"trait":"Terrain, Permanent","type":"Upgrade","rare":"Rare"},
+    "The Fog Has Lifted!":{"cost":["S"],"time":"1","hp":-1,"icons":[""],"spd":-1,"tct":"","res":["S"],"text":"Upgrade Play Area. Each player's hand size is increased by 2 for the rest of the game.","vp":-1,"trait":"Terrain","type":"Upgrade","rare":"Rare"},
     "Behind Schedule":{"cost":[""],"time":"1","hp":-1,"icons":[""],"spd":-1,"tct":"","res":[""],"text":"Play when an opponent spends time. The time used is doubled. If this would cause the opponent's time to drop below 0, their time is set to 0 and the action they tried to complete is left incomplete.","vp":-1,"trait":"Strategy","type":"Event","rare":"Unique"},
     "Chaotic Misinformation":{"cost":["C"],"time":"3","hp":-1,"icons":[""],"spd":-1,"tct":"","res":["C"],"text":"Action: Discard the top 2 cards of your opponent's deck, then shuffle your deck and your opponent's deck.","vp":-1,"trait":"Strategy","type":"Event","rare":"BLUE"},
     "Take it to the Top":{"cost":["G"],"time":"1","hp":-1,"icons":[""],"spd":-1,"tct":"","res":["W"],"text":"Play when determining advantage. If you have 2 or more royalty cards in play, all of your units gain +2 Tactics until the end of the attack.","vp":-1,"trait":"Strategy","type":"Event","rare":"BLUE"},
     "Old Memories":{"cost":["G", "W"],"time":"2","hp":-1,"icons":[""],"spd":-1,"tct":"","res":["C"],"text":"Upgrade enemy character. After this unit strikes, deal 1 damage to it","vp":-1,"trait":"","type":"Detriment","rare":"BLUE"},
     "War Hog":{"cost":["A"],"time":"3","hp":2,"icons":["B"],"spd":3,"tct":"0","res":["M"],"text":"-","vp":-1,"trait":"Animal, Military","type":"Unit","rare":"BLUE"},
-    "Defend the City":{"cost":["A", "W"],"time":"3","hp":-1,"icons":[""],"spd":-1,"tct":"","res":["W"],"text":"Play after you declare defenders. Each defending unit gains Wall until the end of the battle","vp":-1,"trait":"Strategy","type":"Event","rare":"BLUE"},  
-    "Wise Dragon":{"cost":["3M", "3S"],"time":"5","hp":3,"icons":["T", "Tw"],"spd":2,"tct":"8","res":["S"],"text":"Flying. After you play a unit or building, you may exhaust that card to draw a card","vp":2,"trait":"Beast, Ranged","type":"Unit","rare":"Rare"},    
-    "Logging Forest":{"cost":["G"],"time":"4","hp":4,"icons":[""],"spd":-1,"tct":"","res":["W"],"text":"After this card enters play, place 5 counters on it. Resource: Exhaust this card, spend 1 time, and remove 1 or 2 counters from this card to gain an equal amount of wood.","vp":1,"trait":"Structure, Generation","type":"Building","rare":"Common"},  
-    "Soldier Battalion":{"cost":["A", "A"],"time":"3","hp":-1,"icons":[""],"spd":-1,"tct":"","res":["G"],"text":"Summon up to 3 Soldiers.","vp":-1,"trait":"","type":"Event","rare":"Rare"},
-    "Malnourishment":{"cost":["M"],"time":"1","hp":-1,"icons":[""],"spd":-1,"tct":"","res":["F"],"text":"Play on an opponent's play area. Opponent's civilian and military units have 1 less health, to a minimum of 1. As an action, this opponent may spend 2 meat or 2 fish to discard this card.","vp":-1,"trait":"","type":"Detriment","rare":"BLUE"},     
+    "Defend the City":{"cost":["A", "W"],"time":"3","hp":-1,"icons":[""],"spd":-1,"tct":"","res":["W"],"text":"Play after you declare defenders. Each defending unit gains Wall until the end of the battle","vp":-1,"trait":"Strategy","type":"Event","rare":"BLUE"},
+    "Wise Dragon":{"cost":["3M", "3S"],"time":"5","hp":3,"icons":["T", "Tw"],"spd":2,"tct":"8","res":["S"],"text":"Flying. After you play a unit or building, you may exhaust that card to draw a card","vp":2,"trait":"Beast, Ranged","type":"Unit","rare":"Rare"},
+    "Logging Forest":{"cost":["G"],"time":"4","hp":4,"icons":[""],"spd":-1,"tct":"","res":["W"],"text":"After this card enters play, place 5 counters on it. Resource: Exhaust this card, spend 1 time, and remove 1 or 2 counters from this card to gain an equal amount of wood.","vp":1,"trait":"Structure, Production","type":"Building","rare":"Common"},
+    "Soldier Battalion":{"cost":["A", "A", "A"],"time":"3","hp":-1,"icons":[""],"spd":-1,"tct":"","res":["G"],"text":"Action: Summon up to 3 Soldiers.","vp":-1,"trait":"","type":"Event","rare":"Rare"},       
+    "Archer Battalion":{"cost":["W", "W", "W"],"time":"3","hp":-1,"icons":[""],"spd":-1,"tct":"","res":["W"],"text":"Action: Summon up to 3 Archers.","vp":-1,"trait":"","type":"Event","rare":"Rare"},
+    "Malnourishment":{"cost":["M"],"time":"1","hp":-1,"icons":[""],"spd":-1,"tct":"","res":["F"],"text":"Play on an opponent's play area. Opponent's civilian and military units have 1 less health, to a minimum of 1. As an action, this opponent may spend 2 meat or 2 fish to discard this card.","vp":-1,"trait":"","type":"Detriment","rare":"BLUE"},
     "Scarecrow":{"cost":[""],"time":"1","hp":1,"icons":[""],"spd":-1,"tct":"","res":["W"],"text":"The front this card is on cannot be attacked by a single unit (two or more units must attack).","vp":-1,"trait":"","type":"Building","rare":"BLUE"},
     "Nullify":{"cost":[""],"time":"3","hp":-1,"icons":[""],"spd":-1,"tct":"","res":[""],"text":"Attach to enemy unit. This unit is treated as having no card text. ","vp":-1,"trait":"","type":"Detriment","rare":"BLUE"},
     "Daze":{"cost":[""],"time":"1","hp":-1,"icons":[""],"spd":-1,"tct":"","res":[""],"text":"Play on enemy unit. Attached unit has -1 tactics","vp":-1,"trait":"","type":"Detriment","rare":"BLUE"},
-    "Positivity":{"cost":["Q"],"time":"0","hp":-1,"icons":[""],"spd":-1,"tct":"","res":["S"],"text":"Play an attribute upgrade from your discard pile.","vp":-1,"trait":"","type":"Event","rare":"BLUE"},
-    "Negativity":{"cost":["Q"],"time":"0","hp":-1,"icons":[""],"spd":-1,"tct":"","res":["C"],"text":"Play an attribute detriment from your discard pile. ","vp":-1,"trait":"","type":"Event","rare":"BLUE"},
+    "Positivity":{"cost":["Q"],"time":"0","hp":-1,"icons":[""],"spd":-1,"tct":"","res":["S"],"text":"Play an attribute upgrade from your discard pile.","vp":-1,"trait":"","type":"Event","rare":"BLUE"},       
+    "Negativity":{"cost":["Q"],"time":"0","hp":-1,"icons":[""],"spd":-1,"tct":"","res":["C"],"text":"Play an attribute detriment from your discard pile. ","vp":-1,"trait":"","type":"Event","rare":"BLUE"},    
+    "Dodge":{"cost":[""],"time":"2","hp":-1,"icons":[""],"spd":-1,"tct":"","res":["W"],"text":"Play after an oppent plays an attack event. Cancel that event.","vp":-1,"trait":"Cancel","type":"Event","rare":"BLUE"},
+    "Rebellion":{"cost":["A", "A", "A", "A"],"time":"3","hp":-1,"icons":[""],"spd":-1,"tct":"","res":["A"],"text":"Action: Choose up to 3 copies of an enemy unit all controlled by the same opponent. Until the end of the day, you take control of those units.","vp":-1,"trait":"","type":"Event","rare":"BLUE"},
+    "Shark":{"cost":["F", "F", "M"],"time":"2","hp":3,"icons":["D", "D", "D"],"spd":2,"tct":"1","res":["M"],"text":"After this unit strikes, heal 1 from it. At the end of the day, if this unit is ready, deal 1 damage to it. Action: Spend 1 fish or 1 meat to exhaust this unit.","vp":-1,"trait":"Water, Animal","type":"Unit","rare":"BLUE"},
+    "Tree":{"cost":["W"],"time":"1","hp":1,"icons":[""],"spd":-1,"tct":"","res":["W"],"text":"During night, If you have 2 or more copies of this card in play, you may add a copy of this card from your discard pile to your hand (limit 1 use per night). Resource: Discard this card and spend 1 time to gain 1 wood. ","vp":-1,"trait":"Terrain, Resource","type":"Building","rare":"Common"},
+    "Forest":{"cost":["W", "W", "W"],"time":"4","hp":3,"icons":[""],"spd":-1,"tct":"","res":["W"],"text":"During night, summon a Tree on this front. Trees gain Guardian Forest.","vp":1,"trait":"Terrain, Production","type":"Building","rare":"Rare"},
+    "Flames":{"cost":["W", "W"],"time":"1","hp":-1,"icons":[""],"spd":-1,"tct":"","res":[""],"text":"Play on an enemy building. At the start of the night, attached building takes 1 damage. Then, the controller of attached building may start the day with 2 less time to discard this card.","vp":-1,"trait":"Burning","type":"Detriment","rare":"Common"},
+    "Inferno":{"cost":["W", "W"],"time":"2","hp":-1,"icons":[""],"spd":-1,"tct":"","res":["W"],"text":"Play after you gain the undefended bonus. For each copy of Flame on different buildings, you may summon another copy of Flame on a building without Flame that is on the same front.","vp":-1,"trait":"Burning","type":"Event","rare":"Rare"},
+    "Ignite":{"cost":[""],"time":"1","hp":-1,"icons":[""],"spd":-1,"tct":"","res":["W"],"text":"Play when an opponent's building takes damage from a friendly unit. Decrease the damage dealt by 1 to summon Flames on that building.","vp":-1,"trait":"Burning","type":"Event","rare":"BLUE"},
+    "Scorched Earth":{"cost":[""],"time":"1","hp":-1,"icons":[""],"spd":-1,"tct":"","res":["W"],"text":"Strike: Summon Flames on a friendly building on this front to deal 1 damage each to up to 2 units.","vp":-1,"trait":"Burning, Strategy","type":"Event","rare":"BLUE"},
+    "Eternal Flames":{"cost":["W", "W"],"time":"2","hp":-1,"icons":[""],"spd":-1,"tct":"","res":["W"],"text":"Play on an opponent's building with at least 2 copies of Flames. Discard 2 copies of flames from attached building. During night, summon Flames on any building on this front. ","vp":-1,"trait":"Burning","type":"Detriment","rare":"Rare"},
 };
 let cardCount = Object.keys(CardDB).length;
 var matchCards = [];
